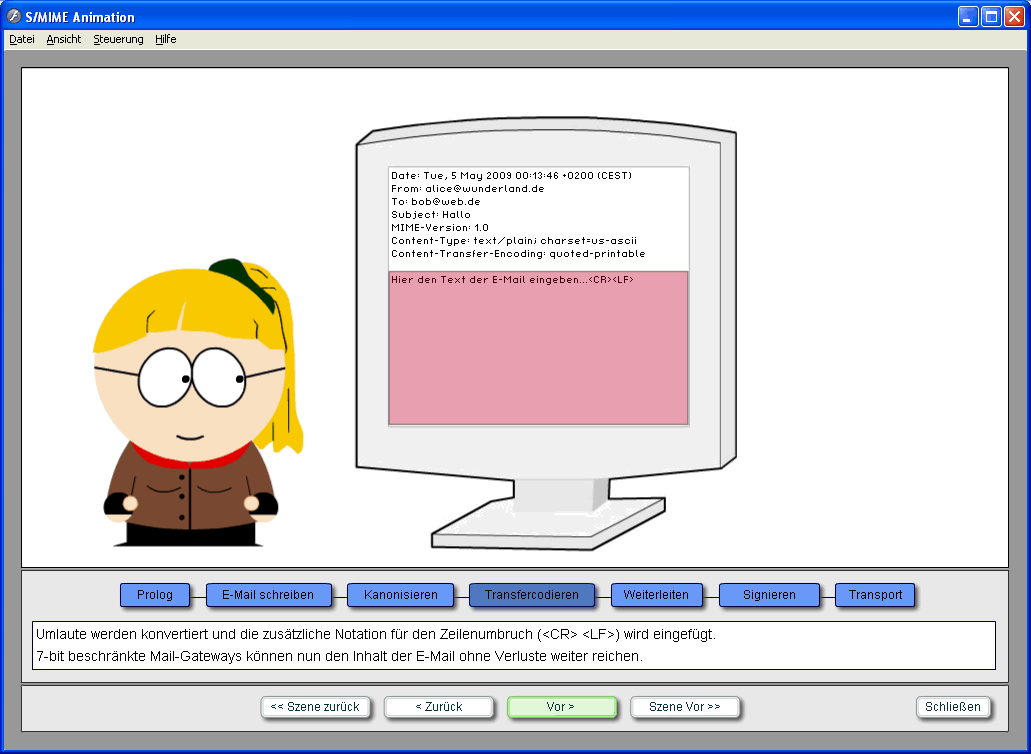
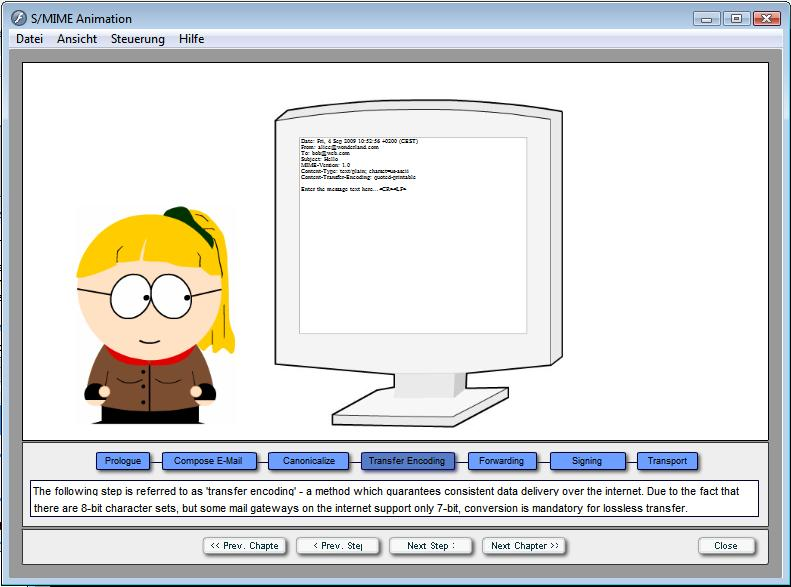
changes in SMIME online help (new screenshots, fixed typos...)

diff --git a/CrypTool/hlp_en/hid_protokol_smime.html b/CrypTool/hlp_en/hid_protokol_smime.html
@@ -4,6 +4,7 @@
 <META HTTP-EQUIV="Content-Type" Content="text/html; charset=Windows-1252">
 <TITLE>Secure E-Mail with S/MIME</TITLE>
 <link rel="stylesheet" type="text/css" href="CrypTool_Help.css">
+<script language="JScript" src="helper.js"></script>
 </HEAD>
 
 <!-- multiple keywords for CrypTool HTML help index -->
@@ -18,23 +19,26 @@
 
 <P>This visualization shows how to sign and encrypt an e-mail according to the S/MIME standard.</P>
 
-<P>You can change data and control parameters in the control center.</P>
+<P>This visualization is presented with two windows:</P>
 
-<P>In the Flash animation you can see an e-mail travelling from sender to receiver and you can learn about 
-the structure of the message.</P>
+<UL>
+<LI>In the control center window you can change data and control parameters.</LI>
+<LI>After that you can start the Flash animation window. There you can see an e-mail travelling 
+from sender to receiver and you can learn about the structure of the message.</LI>
+</UL>
 
 <P>The concepts of PKI, certificates, hash algorithms, encryption and digital signatures are explained, 
 because these concepts are used in e-mails according to the S/MIME protocol.</P>
 
-<P>The comprehendible visualization with modern animation software is a good tool to achieve user awareness, 
-because secure e-mail is an important component for preserving privacy, defending man-in-the-middle attacks and 
-against Phishing.</P>
+<P>The comprehendible visualization with modern animation software is an appropriate way to achieve user 
+awareness, because secure e-mail is an important component for preserving privacy and for defending 
+man-in-the-middle attacks and phishing.</P>
 
 <P><IMG SRC="images/smime_control_center.jpg" ALT="smime_control_center.jpg" BORDER=0 width="800px"></P>
 
 <P><IMG SRC="images/smime_animation.jpg" ALT="smime_control_center.jpg" BORDER=0 width="800px"></P>
 
-<P><IMG SRC="images/smime_flow_chart.jpg" ALT="smime_control_center.jpg" BORDER=0 width="800px"></P>
+<!-- <P><IMG SRC="images/smime_flow_chart.jpg" ALT="smime_control_center.jpg" BORDER=0 width="800px"></P> -->
 
 <P>The foundation of text-based e-mail traffic was already established in 1982 by two standards:<br/>
 a) The standard [RFC822] specifies the structure of an e-mail.<br/>
@@ -45,8 +49,8 @@ transmitting e-mails from sender to receiver with a protocol based on ASCII char
 protocols, gateways are used as nodes to connect these networks. An e-mail gateway triggers the temporary 
 storage of an e-mail and its delivery to the target.</P>
 
-<P>E-mails often contain attachments exceeding pure text, for example various attachments in binary format. 
-Therefore the standards mentioned above were expanded by the MIME standard (Multipurpose Internet Mail 
+<P>E-mails nowadays often contain attachments exceeding pure text, for example various attachments in binary 
+format. Therefore the standards mentioned above were expanded by the MIME standard (Multipurpose Internet Mail 
 Extensions) specified in [RFC2045 to 2049].</P>
 
 <P>S/MIME (Secure Multipurpose Internet Mail Extensions) is an expansion of MIME, adding the possibility of 
@@ -55,11 +59,11 @@ specified in the Public Key Cryptography Standards (PKCS #7). S/MIME can be used
 well as encrypted communication via http. The following table shows some of the algorithms used in S/MIME v3.1:</P>
 
 <TABLE class="pad10">
-<TR><TD><B>Algorithm</B></TD><TD><B>S/MIME v3.1<br>mandatory/optional</B></TD></TR>
-<TR><TD>Hash algorithms</TD><TD>SHA-1/MD5</TD></TR>
-<TR><TD>Signature algorithms</TD><TD>DSA/RSA</TD></TR>
-<TR><TD>Public key encryption</TD><TD>RSA/Diffie-Hellman (RFC2631)</TD></TR>
-<TR><TD>Symmetric algorithms</TD><TD>3DES/AES</TD></TR>
+<TR><TD><B>Algorithm</B></TD><TD><B>S/MIME v3.1<br>mandatory, optional</B></TD></TR>
+<TR><TD>Hash algorithms</TD><TD>SHA-1, MD5</TD></TR>
+<TR><TD>Signature algorithms</TD><TD>DSA, RSA</TD></TR>
+<TR><TD>Public key encryption</TD><TD>RSA, Diffie-Hellman (RFC2631)</TD></TR>
+<TR><TD>Symmetric algorithms</TD><TD>3DES, AES</TD></TR>
 </TABLE>
 
 <P><B><U>Literature</U></B>:</P>
@@ -68,12 +72,13 @@ well as encrypted communication via http. The following table shows some of the 
 
 <P><B>Remark 1</B>:</P>
 
-<B>The control center is written in Java SWT and requires at least Java 1.5. The Bouncy Castle (BC) 
-Cryptographic Library is used for cryptographical routines, and it also serves as additional Security 
-Provider in Java.</B>
+<P>The control center is written in Java SWT and requires at least Java 1.5. The Bouncy Castle (BC) 
+Cryptographic Library is used for cryptographic routines, and it also serves as additional Security 
+Provider in Java.</P>
 
 <P>In order to use keys of arbitrary length, the "unrestricted policy files" need to be installed before 
-using BC. You can obtain these files from http://java.sun.com or http://java.sun.com/javase/downloads/index.jsp, 
+using BC. You can obtain these files from <a href="http://java.sun.com" target="_blank">http://java.sun.com</a> 
+or <a href="http://java.sun.com/javase/downloads/index.jsp" target="_blank">http://java.sun.com/javase/downloads/index.jsp</a> 
 respectively. To install these files, rename the old JAR files local_policy.jar and US_export_policy.jar in 
 C:\program files\Java\jre6\lib\security and use the new ones instead. Remember to restart the control center.</P>
 
@@ -86,7 +91,7 @@ you get the following message:</P>
 
 <P>In the Flash animation the Windows pixel font Bavaria Extended is used to display all dynamic content. 
 If this font is not installed, you can still read the text but the marks will be off. The font can be 
-used freely for non-commercial purposes. Source: 
+used freely for non-commercial purposes. Source:<br> 
 http://pixelfonts.style-force.net/download/bavaria-extended/</P>
 
 <P>Installation of fonts under Windows requires the following steps:<br/>
